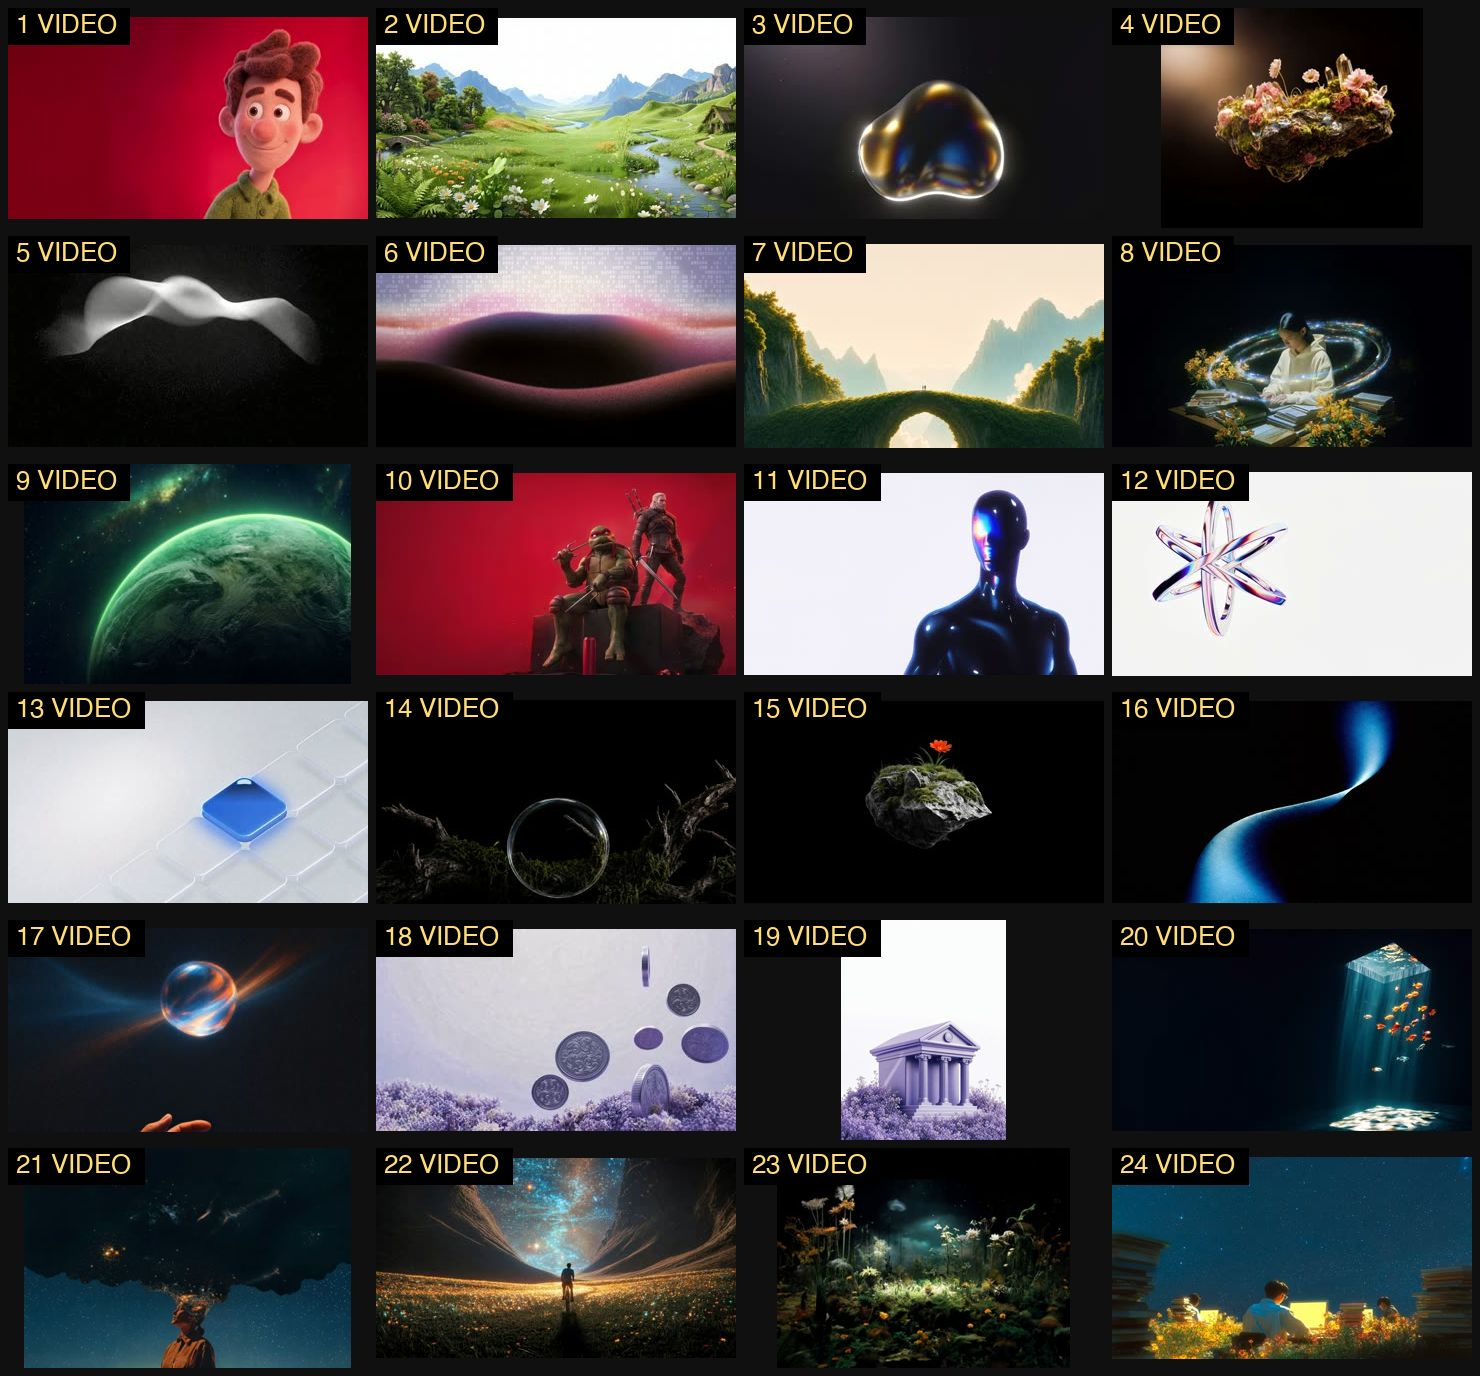
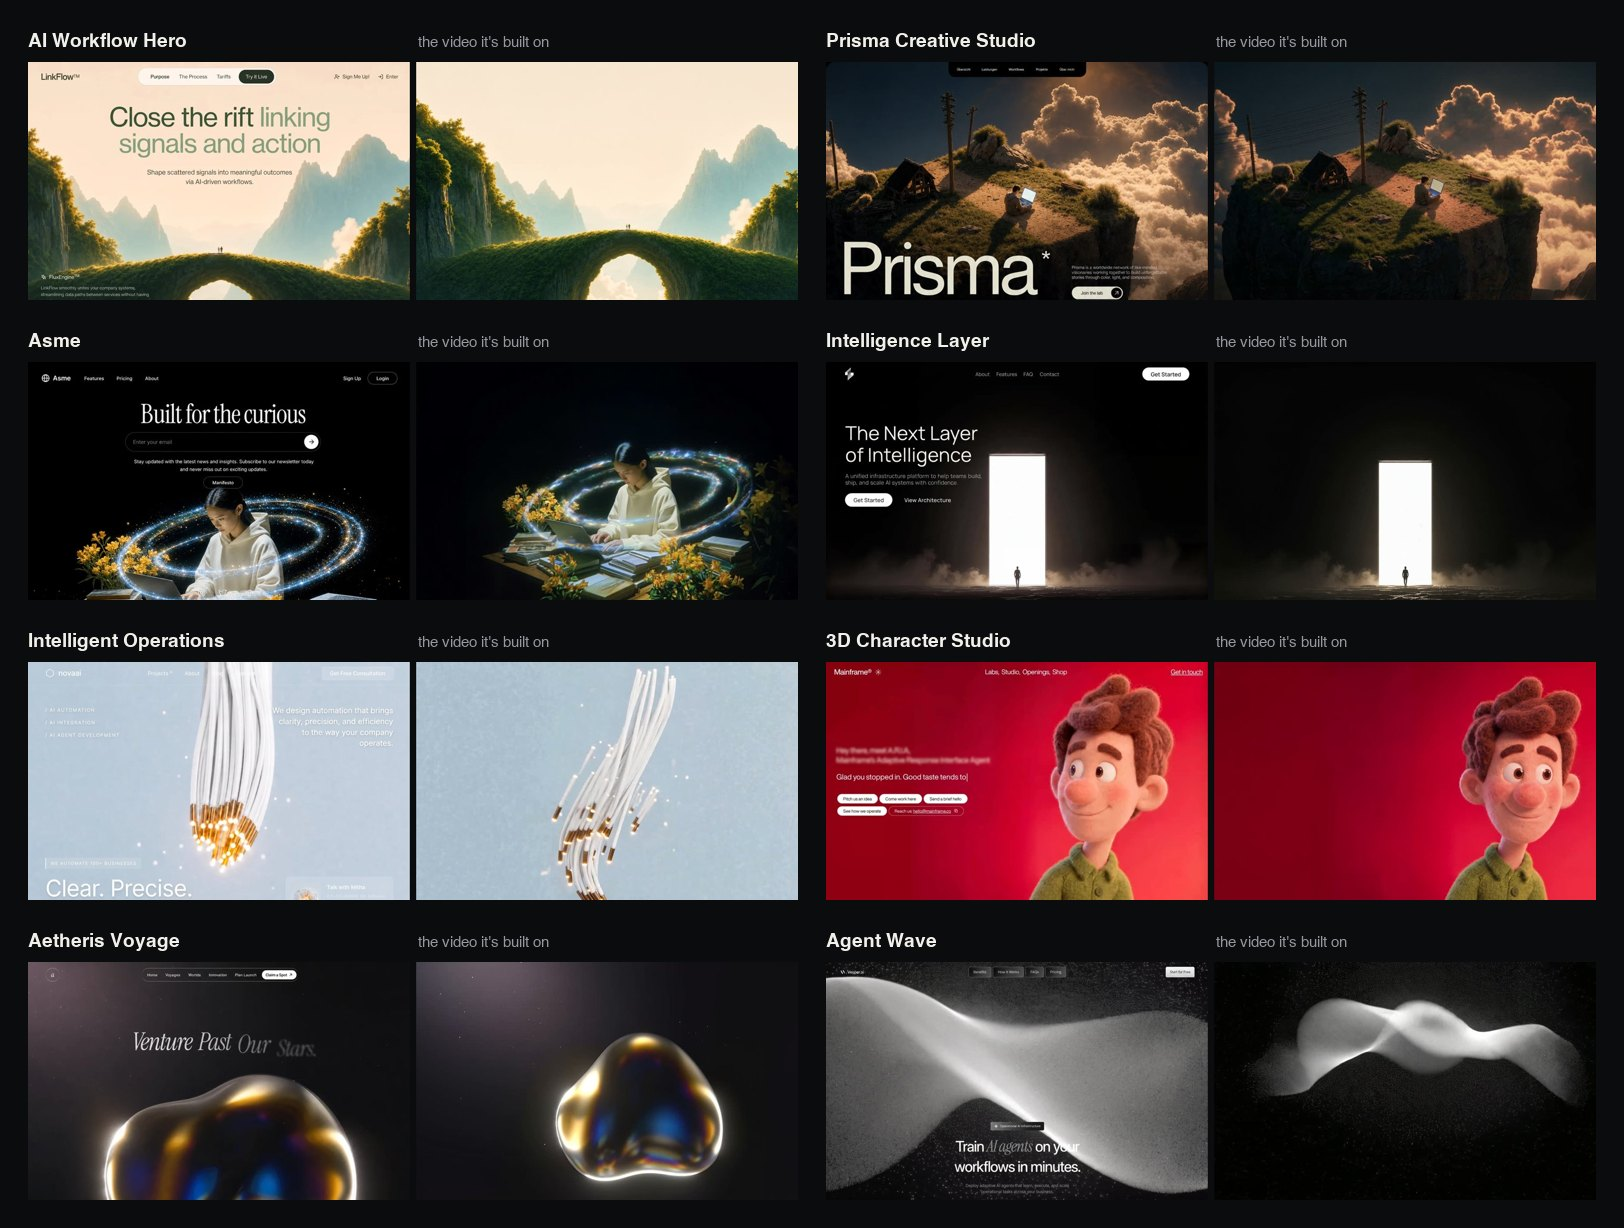
README: show example sites next to their hero videos

diff --git a/README.md b/README.md
@@ -4,8 +4,8 @@
 
 AI-built websites tend to look the same for three reasons: a vague plan, no real media, and nobody looking at the result. This skill fixes all three. Claude studies the most-liked designs from [MotionSites](https://motionsites.ai/?utm_source=github&utm_medium=claude-skill&utm_campaign=web-builder), picks real cinematic media, writes a precise build spec, builds the page, then **screenshots its own work and fixes it** until it clears a gallery-level bar.
 
-![Some of the cinematic hero videos included on the media shelf](preview-media.jpg)
-<sub>A few of the 50+ hero videos on the skill's media shelf.</sub>
+![Example designs from the skill, each next to the hero video it is built on](preview-media.jpg)
+<sub>8 of the 40 example designs inside the skill, each shown next to the video it's built on. All 50+ videos are on the skill's media shelf.</sub>
 
 ## What's inside
 - **40 example prompts:** the most-liked free prompts on MotionSites, the designs people actually love. Claude reads the closest 2–3 for every brief to match their level of detail and taste.
